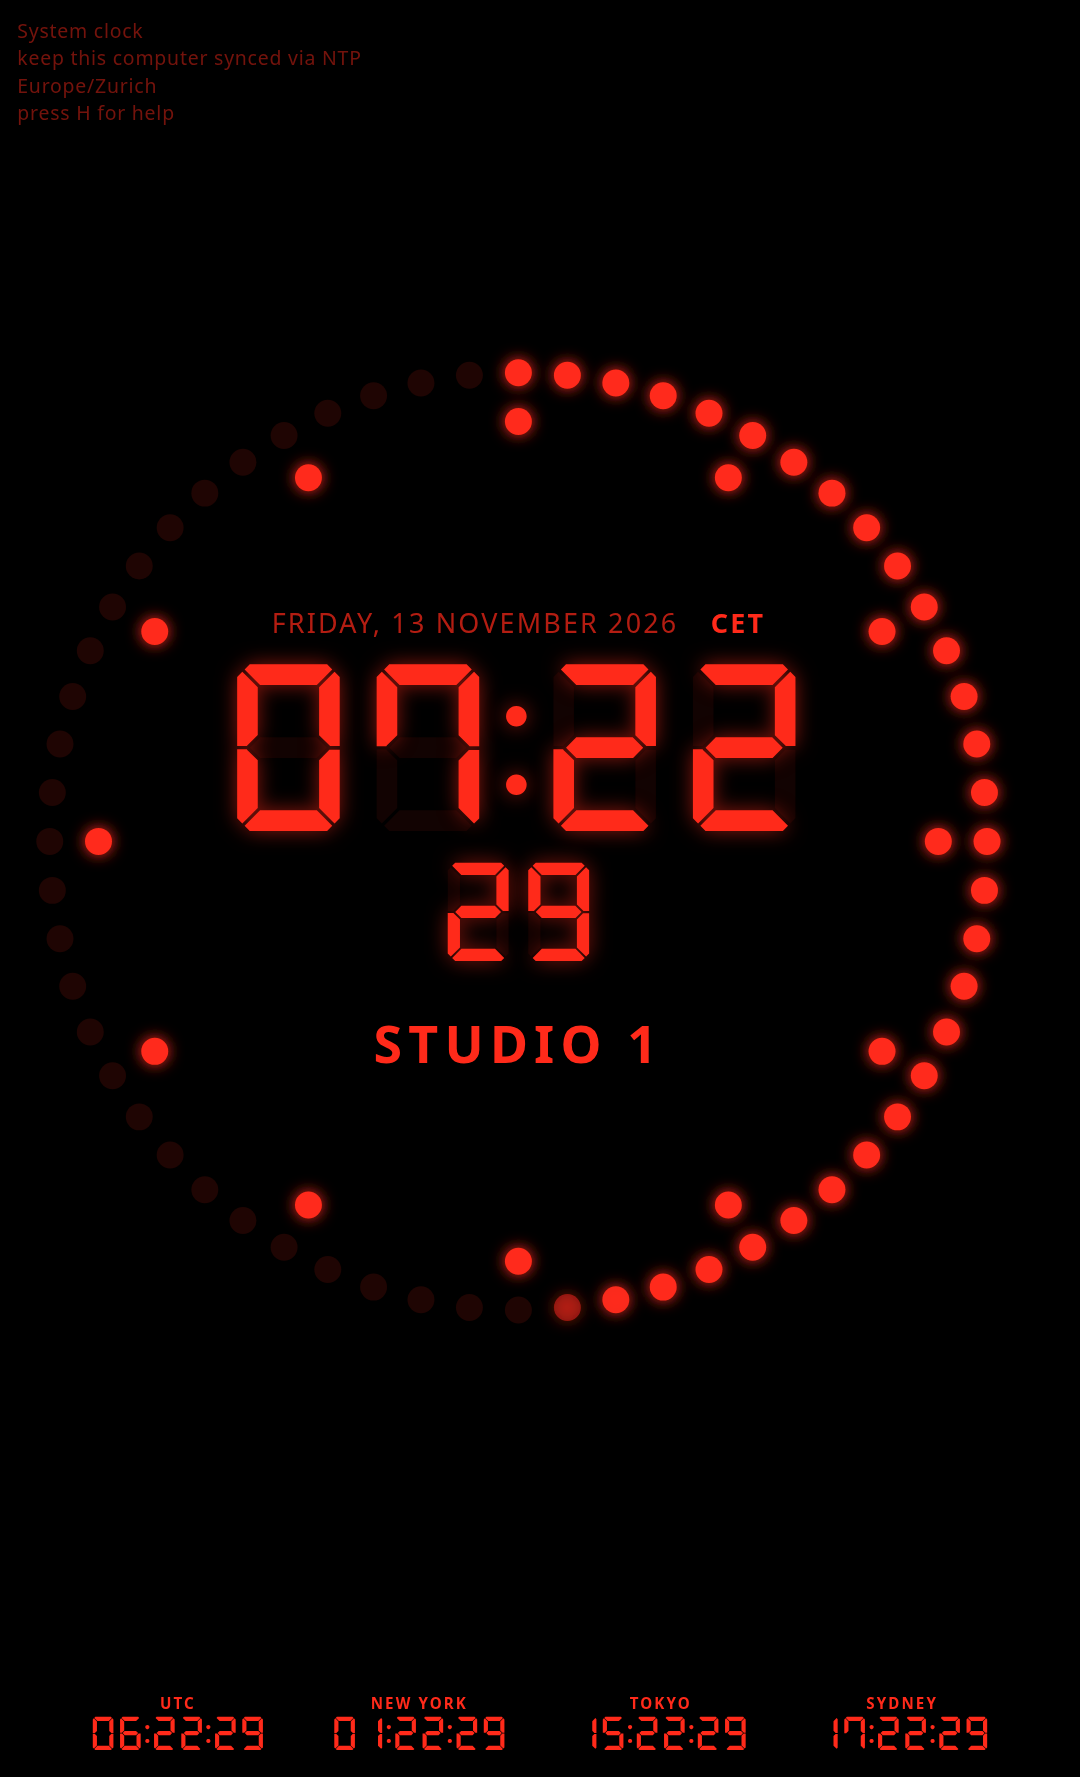
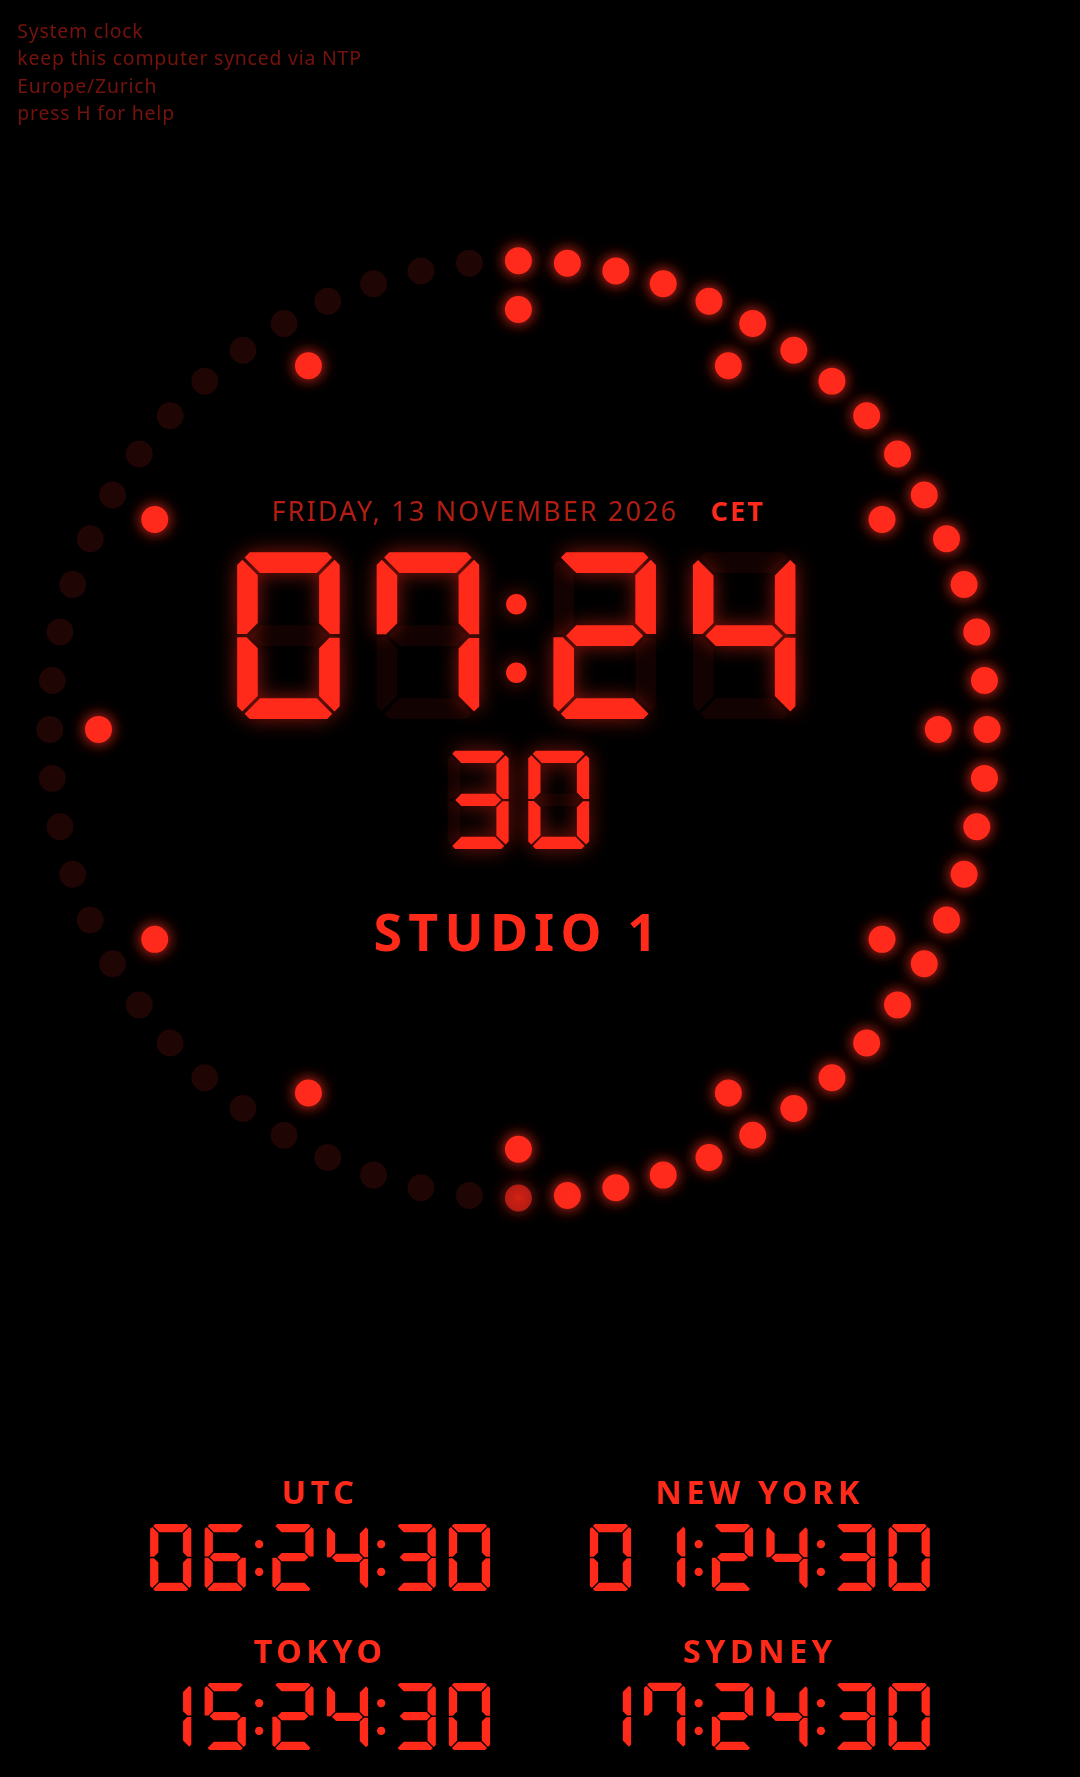
Portrait strip: two clocks per row with larger digits, dial yields the strip height

diff --git a/master-clock.html b/master-clock.html
@@ -33,7 +33,7 @@
 
   .clock { position: relative; width: 96vmin; height: 96vmin; container-type: size; transition: transform 3s ease; }
   body.strip { grid-template-rows: minmax(0, 1fr) auto; }
-  body.strip .clock { width: min(96vmin, 100vh - 17vmin); height: min(96vmin, 100vh - 17vmin); }
+  body.strip .clock { width: min(96vmin, 100vh - var(--strip-h, 17vmin) - 2vmin); height: min(96vmin, 100vh - var(--strip-h, 17vmin) - 2vmin); }
   .ring { position: absolute; inset: 0; width: 100%; height: 100%; }
   .ring .sec, .ring .hour, .center, .side, .zones, .readout .d { transition: fill 2s, color 2s; }
   .ring .sec { fill: rgba(var(--led-rgb), .12); }
@@ -94,8 +94,9 @@
   .zones.strip .readout .k { font-size: max(13px, min(2.8vmin, 1.4vw)); }
   .zones.strip .readout .d { font-size: min(5.5vmin, 84vw / (var(--n) * var(--chars) * .85)); }
   @media (max-aspect-ratio: 3/2) {
-    .zones.strip { flex-wrap: wrap; gap: 2vmin 6vw; }
-    .zones.strip .readout .d { font-size: min(5.5vmin, 84vw / (min(var(--n), 4) * var(--chars) * .85)); }
+    .zones.strip { flex-wrap: wrap; gap: 3vmin 8vw; }
+    .zones.strip .readout .k { font-size: max(14px, 3vmin); }
+    .zones.strip .readout .d { font-size: min(8vmin, 84vw / (min(var(--n), 2) * var(--chars) * .85)); }
   }
   .readout:empty { display: none; }
   .readout .k { display: block; margin-bottom: .25em; font-size: max(12px, 2.2vmin); font-weight: 600; letter-spacing: .14em; color: rgb(var(--led-rgb)); }
@@ -693,6 +694,8 @@ function placeZones() {
 }
 placeZones();
 wideScreen.addEventListener("change", placeZones);
+// the dial gives up exactly the height the strip takes
+new ResizeObserver(() => document.body.style.setProperty("--strip-h", el.zones.offsetHeight + "px")).observe(el.zones);
 
 let lastSecond = null;
 let lastDateKey = null;

diff --git a/README.md b/README.md
@@ -58,7 +58,7 @@ master-clock.html?text=NEWSROOM&zones=UTC,America/Los_Angeles:LA,America/New_Yor
 
 ![World clock strip](docs/world-clock.png)
 
-Portrait screen: the extra clocks move to the bottom automatically.
+Portrait screen: the extra clocks move to the bottom automatically, two per row.
 
 ```
 master-clock.html?zones=UTC,America/New_York,Asia/Tokyo,Australia/Sydney
